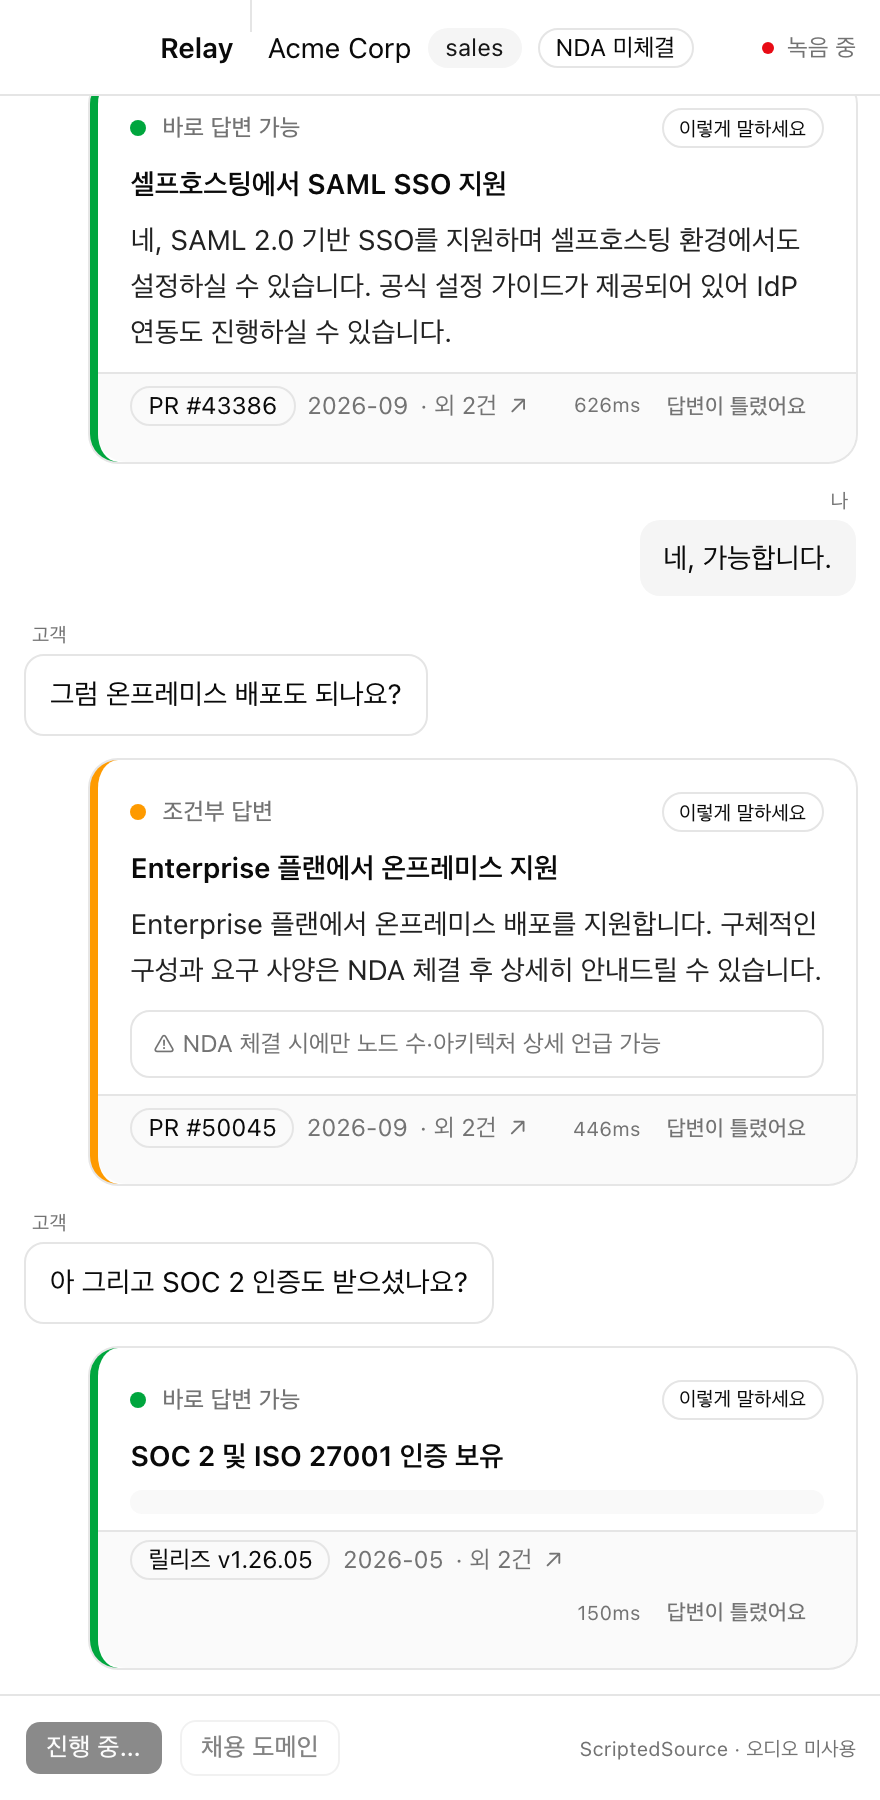
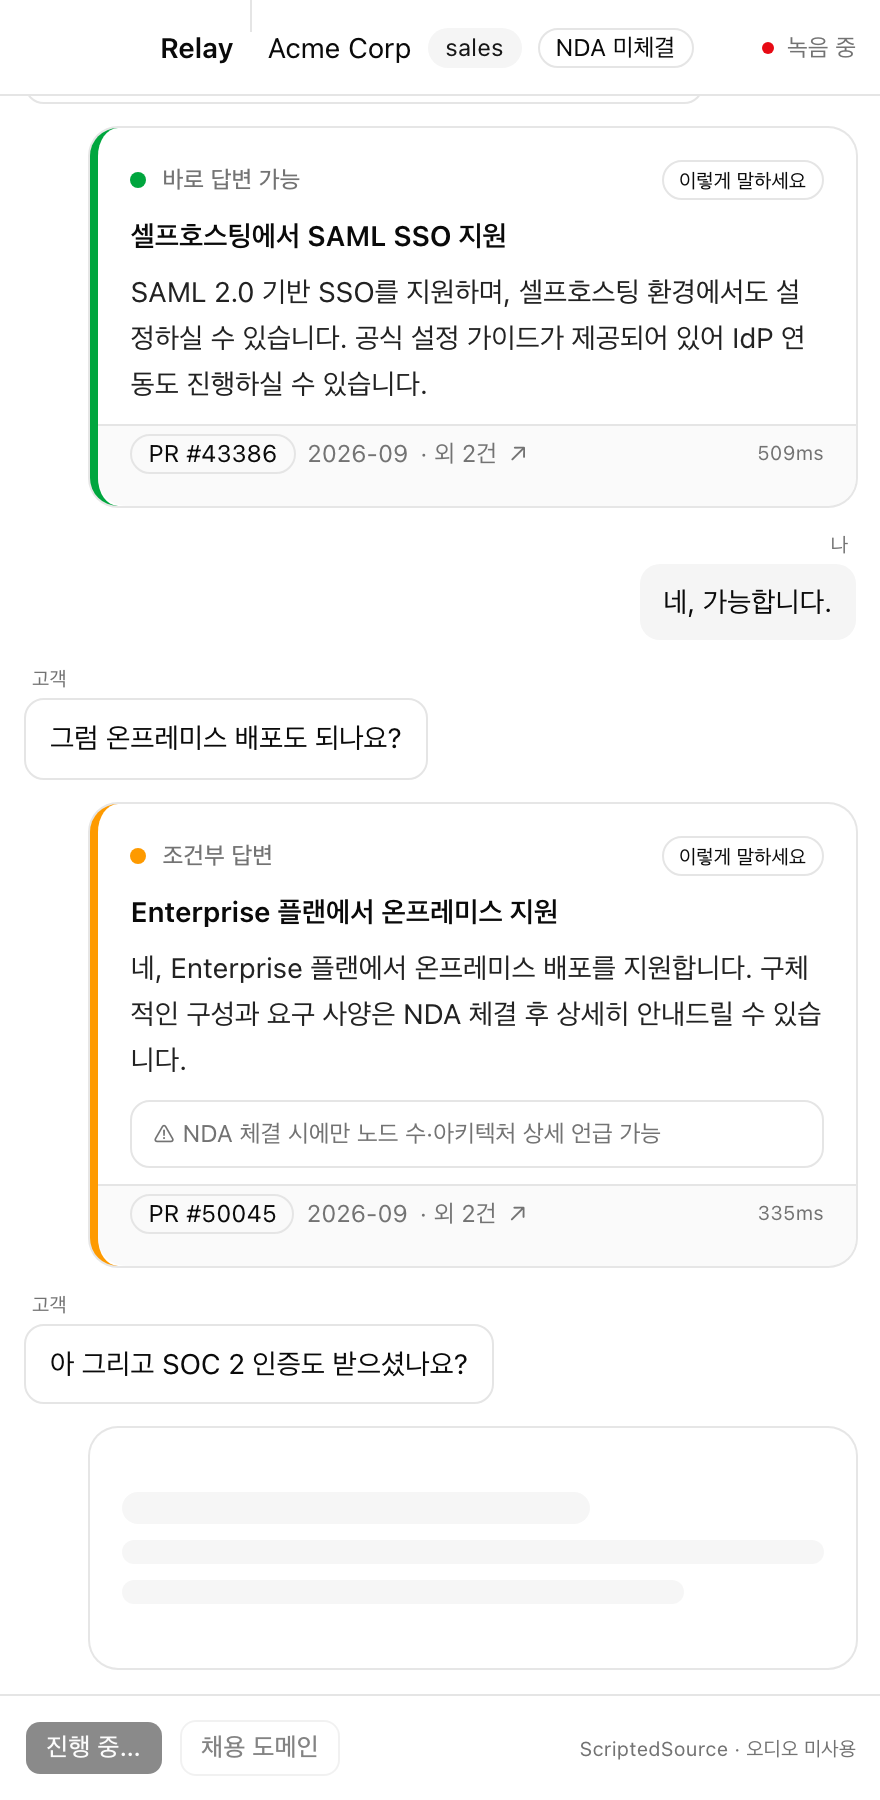
fix: 동작하지 않는 [답변이 틀렸어요] 버튼 제거 + Swift 계획서 보완
버튼 제거
  POST /questions/{id}/reject 가 미구현이라 눌러도 아무 일도 일어나지 않았다.
  SwiftUI 로 옮기면 동작하지 않는 UI 를 그대로 복제하게 되므로 먼저 제거한다.
  API 구현 시 함께 되살린다.

계획서 09 수정
  3-1  패널이 쓰는 API 표에 reject 누락 사유 명시
  3-4  TS 리듀서 출력을 파일로 떠 두는 dump-feed 스크립트 필요성 추가
       (없으면 'TS 피드와 동일'을 검증할 기준 자체가 없음)
  P2   캡처 확보를 완료 기준에 추가
  P3   sharingType=.none 이 스크린샷도 막는 모순 해소.
       RELAY_CAPTURE 토글 + 캡처는 Phase 2 에서 선확보
  P4   utterances 업링크는 '신규'가 아니라 명세 선언 후 미구현임을 정정
  리스크 표에 위 두 건 추가

캡처 재촬영 (버튼 제거 반영), 대상 경로를 /panel-full 로 변경

diff --git a/app/src/components/panel/suggestion-card.tsx b/app/src/components/panel/suggestion-card.tsx
@@ -1,6 +1,5 @@
 import { Card, CardContent, CardFooter, CardHeader } from '@/components/ui/card'
 import { Badge } from '@/components/ui/badge'
-import { Button } from '@/components/ui/button'
 import { Alert, AlertDescription } from '@/components/ui/alert'
 import { Skeleton } from '@/components/ui/skeleton'
 import { cn } from '@/lib/utils'
@@ -19,13 +18,12 @@ const MODE = {
   escalate:    { label: '확인 필요',      border: 'border-l-red-600',    dot: 'bg-red-600' },
 } as const
 
-export function SuggestionCard({
-  item,
-  onReject,
-}: {
-  item: SuggestionItem
-  onReject?: (questionId: string) => void
-}) {
+/**
+ * 답변 오류 신고 버튼은 두지 않는다.
+ * POST /questions/{id}/reject 를 구현하기 전까지 누를 수 있는 버튼을 노출하면
+ * 동작하지 않는 UI가 된다. API 구현 시 함께 되살린다.
+ */
+export function SuggestionCard({ item }: { item: SuggestionItem }) {
   // 판정 전 — 질문은 감지됐고 검색 중
   if (!item.mode) {
     return (
@@ -81,19 +79,9 @@ export function SuggestionCard({
 
       <CardFooter className="flex-wrap items-center gap-x-2 gap-y-1 px-4 pt-1">
         <SourceBadge evidence={item.evidence} />
-        <div className="ml-auto flex items-center gap-1">
-          {item.latencyMs !== null && (
-            <span className="text-[10px] text-muted-foreground">{item.latencyMs}ms</span>
-          )}
-          <Button
-            variant="ghost"
-            size="sm"
-            className="no-drag h-6 px-2 text-[11px] text-muted-foreground"
-            onClick={() => onReject?.(item.id)}
-          >
-            답변이 틀렸어요
-          </Button>
-        </div>
+        {item.latencyMs !== null && (
+          <span className="ml-auto text-[10px] text-muted-foreground">{item.latencyMs}ms</span>
+        )}
       </CardFooter>
     </Card>
   )

diff --git a/docs/09-Swift-마이그레이션-계획.md b/docs/09-Swift-마이그레이션-계획.md
@@ -1,0 +1,243 @@
+# Relay — 화면 1 Swift 마이그레이션 계획
+
+> 2026-09-08 작성. **과제 제출(09-10 14:00) 이후** 착수 전제.
+> 범위: 실시간 어시스트 패널(화면 1)만 SwiftUI로 옮긴다. 백엔드·화면 2·3은 그대로.
+> 견적: SwiftUI 숙련자 기준 **3.5일** (버퍼 포함 4일).
+
+---
+
+## 0. 왜 옮기는가, 왜 패널만인가
+
+| 이유 | 설명 |
+|---|---|
+| Liquid Glass | Electron은 `NSVisualEffectView`까지만 노출. 굴절·주변광 반응은 `NSGlassEffectView`/`.glassEffect()` 전용 |
+| 패널이 효과를 가장 크게 받음 | 항상 떠 있는 유리창이라 재질 차이가 상시 노출됨. 화면 2·3은 책상 앞 일반 창이라 이득이 작음 |
+| 시스템 오디오 | `ScreenCaptureKit`이 네이티브. `03-기술스택.md`에서 Tauri를 기각한 사유가 Swift에선 반대로 장점 |
+| 화면 2·3은 웹 유지 | 브라우저에서도 써야 하고, 옮겨도 시각적 이득이 없음. 두 벌 유지 비용만 생김 |
+
+---
+
+## 1. 범위 — 옮기는 것 / 건드리지 않는 것
+
+`git ls-files` 실측 (2026-09-08).
+
+| 영역 | 줄 수 | 처리 |
+|---|---|---|
+| `app/src/lib` 파이프라인 (감지·검색·판정·생성) | 1,230 | **그대로** |
+| `app/src/app/api` REST + SSE | 270 | **그대로** |
+| `app/scripts`, `db/schema.sql`, docker | 1,005 | **그대로** |
+| `app/src/components/gaps` 화면 2 | 433 | **그대로** (웹) |
+| `app/src/components/panel` 화면 1 | 421 | **→ SwiftUI** |
+| `app/src/app/panel*`, `session-header.tsx` | 116 | **→ SwiftUI** |
+| `app/electron/main.js` | 73 | **→ NSPanel** (Phase 3 완료 후 삭제) |
+| `app/src/components/ui` shadcn | 1,118 | 안 옮김. SwiftUI 기본 컴포넌트 |
+
+**백엔드 수정 0줄.** 컴포넌트가 `fetch`/`EventSource`로만 통신하며 서버 액션·직접 DB 접근이 없음을 확인함.
+
+---
+
+## 2. 목표 아키텍처
+
+```
+┌──────────────────────────────┐        ┌──────────────────────────────┐
+│  Relay.app (Swift)            │  HTTP  │  Next.js  (localhost:3000)    │
+│                               │ ─────▶ │                               │
+│  NSPanel(.nonactivating)      │  SSE   │  /api/sessions  (기존)         │
+│   └ NSHostingView             │ ◀───── │  /api/sessions/{id}/stream    │
+│      └ PanelView (SwiftUI)    │        │  /api/deferrals (화면 2가 씀)  │
+│         .glassEffect()        │        │                               │
+│                               │        │  lib/pipeline → Postgres      │
+│  RelayCore (SwiftPM)          │        │               → OpenAI        │
+│   ├ SSEClient                 │        └──────────────────────────────┘
+│   ├ Event (Codable enum)      │                    ▲
+│   └ FeedStore (@Observable)   │        브라우저 ── /gaps (화면 2, 그대로)
+└──────────────────────────────┘
+```
+
+Electron과 Swift 앱은 **같은 서버에 동시에 붙을 수 있다.** 전환 기간 동안 둘을 나란히 띄워 비교한다.
+
+---
+
+## 3. 계약 고정 — 옮기기 전에 얼려 두는 것
+
+### 3-1. 패널이 쓰는 API (2개)
+
+| 호출 | 요청 | 응답 |
+|---|---|---|
+| `POST /api/sessions` | `{ domain, counterpartOrg, context }` | `201 { session: {id, counterpart_org, domain, context, …} }` |
+| `GET /api/sessions/{id}/stream` | — | `text/event-stream`, `data: <json>\n\n` |
+
+> **답변 오류 신고는 이 목록에 없다.**
+> `POST /questions/{id}/reject` 는 API 명세에 선언돼 있으나 미구현이며,
+> 동작하지 않는 버튼을 옮기지 않기 위해 화면에서도 제거했다(2026-09-08).
+> 구현 시 이 표에 3번째 행으로 추가하고 카드 푸터에 버튼을 되살린다.
+
+### 3-2. SSE 이벤트 (10종)
+
+| type | 페이로드 | 피드 반영 |
+|---|---|---|
+| `utterance.partial` | `id, role, text` | 같은 `id` 버블 텍스트 갱신 (없으면 추가) |
+| `utterance.final` | `tempId, utterance{…row, role}` | `tempId` 버블을 확정 row로 교체 |
+| `question.detected` | `questionId, normalized, intent` | 스켈레톤 제안 카드 추가 (`mode: nil`) |
+| `question.verdict` | `questionId, responseMode, headline, condition, evidence[], latencyMs` | 카드 판정 채움 |
+| `question.delta` | `questionId, delta` | `script += delta` |
+| `question.done` | `questionId, script, totalMs` | `done = true`, 최종 script로 덮어씀 |
+| `gap.created` | `questionId, gapId, reason` | 카드에 공백 표시 |
+| `script.done` | — | 스트림 종료, `running = false` |
+| `error` | `message` | 에러 표시 |
+| `utterance` | (서버 내부, 스트림에는 안 나감) | 무시 |
+
+### 3-3. 함정: 케이싱이 섞여 있다
+
+- 이벤트 최상위 필드는 **camelCase** (`questionId`, `responseMode`, `latencyMs`)
+- `utterance.final.utterance` 와 `session` 은 **snake_case** DB row (`session_id`, `is_final`, `has_question_mark`, `counterpart_org`)
+
+→ Swift에서 전역 `keyDecodingStrategy = .convertFromSnakeCase` 를 쓰면 camelCase 필드가 깨진다.
+**타입별 `CodingKeys` 로 명시**하고, 전역 전략은 쓰지 않는다.
+
+### 3-4. 픽스처 녹화
+
+옮기기 전에 실제 스트림을 파일로 떠 둔다.
+
+```
+curl -N localhost:3000/api/sessions/{id}/stream > macos/Fixtures/sales-demo.sse
+```
+
+이 파일이 Swift 파서·리듀서 테스트의 입력이 된다. TS `use-session-stream.ts`가 만드는 피드와
+**항목 수·순서·최종 텍스트가 동일**해야 통과.
+
+비교 대상인 TS 피드도 파일로 떠 둔다. 리듀서만 떼어내 픽스처를 먹이고 결과를 JSON 으로 출력하는
+스크립트가 필요하다 (`app/scripts/dump-feed.ts`, 약 20줄). 이게 없으면 "동일하다"를 검증할 기준이 없다.
+
+```
+Fixtures/sales-demo.sse        입력 (양쪽 공통)
+Fixtures/sales-demo.feed.json  TS 리듀서 출력 = Swift 테스트의 기대값
+```
+
+---
+
+## 4. 단계별 계획
+
+각 단계는 **완료 기준**이 통과해야 다음으로 간다.
+
+### Phase 0 — 준비 (0.5일)
+
+| 작업 | 완료 기준 |
+|---|---|
+| `macos/` 디렉터리, SwiftPM 패키지 `RelayCore` + 앱 타겟 `Relay` 생성 | `swift build` 통과 |
+| 세션 2종(sales / recruiting) SSE 픽스처 녹화 | `Fixtures/*.sse` 2개 존재 |
+| 이 문서의 3절 표를 `RelayCore/Event.swift` 주석으로 옮김 | — |
+
+### Phase 1 — 코어 (1일) · UI 없음
+
+| 작업 | 완료 기준 |
+|---|---|
+| `Event` — `enum` + `Codable`, 타입별 `CodingKeys` | 픽스처 전 줄 디코딩 성공, 알 수 없는 `type`은 무시 (crash 금지) |
+| `SSEClient` — `URLSession.bytes(for:)` → `lines` → `data:` 파싱 → `AsyncStream<Event>` | 픽스처를 로컬 HTTP로 서빙해 끝까지 수신, 취소 시 누수 없음 |
+| `FeedStore` — `@MainActor @Observable`, TS reducer 이식 | 픽스처 재생 결과가 TS 피드와 동일 (항목 수·순서·최종 텍스트) |
+| `RelayAPI` — `createSession` | 실서버 대상 201 수신 |
+
+> 이 단계가 전체의 절반이다. 여기서 TS 리듀서와 1:1로 맞춰 두면 UI는 순수 SwiftUI 작업이 된다.
+
+### Phase 2 — 창 + UI (1.5일)
+
+| 작업 | 완료 기준 |
+|---|---|
+| `PanelWindow` — `NSPanel(styleMask: [.nonactivatingPanel, .fullSizeContentView, …])`, `level = .floating`, `collectionBehavior = [.canJoinAllSpaces, .fullScreenAuxiliary]`, `NSHostingView` | 패널 클릭 시 뒤 앱(브라우저)이 활성 상태 유지 |
+| `SessionHeader` — 녹음 점·경과·상대·단계 (현 `session-header.tsx` 이식) | 타이머가 캡처 중에만 돈다 |
+| `UtteranceBubble` — partial/final 구분 | partial 중 텍스트 갱신이 깜빡이지 않음 |
+| `SuggestionCard` — 스켈레톤 → 판정 → 스트리밍 script → done | `question.delta` 수신 중 한글 조합이 튀지 않음 |
+| `SourceBadge`, 근거 펼침 | — |
+| 자동 스크롤 (`ScrollViewReader`) | 새 항목 추가 시 하단 고정, 사용자가 위로 올리면 멈춤 |
+| `.glassEffect()` 적용, 라이트/다크 | 시스템 외관 전환 시 즉시 반영 |
+| **데모 E2E** | `pnpm dev` 띄운 상태에서 sales 스크립트 9발화 → 카드 4장, 판정 🟢2 🟡1 🔴1 (`08-MVP-Phase2-결과.md`와 동일) |
+| **캡처 확보** ★ | 판정 3색 + 대기 상태 스크린샷을 `wireframes/out/` 에 저장. **Phase 3 의 `sharingType = .none` 을 켜기 전에 반드시 끝낸다** |
+
+### Phase 3 — 폴리시 + 전환 (0.5일)
+
+| 작업 | 완료 기준 |
+|---|---|
+| `window.sharingType = .none` (화면 공유·녹화에서 제외) | QuickTime 화면 녹화에 패널이 안 찍힘 |
+| ↑ 단, `RELAY_CAPTURE=1` 환경변수일 때는 `.readOnly` 로 둔다 | 캡처가 필요할 때 재빌드 없이 전환 가능 |
+| 전역 단축키 (`⌘\` 숨김/표시) — `NSEvent.addGlobalMonitorForEvents` 또는 `CGEventTap` | 다른 앱 활성 상태에서 동작 |
+| Reduce Transparency 대응 (`accessibilityDisplayShouldReduceTransparency`) | 설정 켜면 불투명 배경으로 |
+| Electron 셸 제거 — `app/electron/`, `dev:desktop` 스크립트, `electron`·`concurrently`·`wait-on` 의존성 | `pnpm build`·`lint` 통과, `/panel` 라우트는 브라우저 미리보기용으로 유지 |
+| 문서 갱신 — `03-기술스택.md` 스택 표, `05-화면-필드.md` 캡처 교체 | **Phase 2 에서 확보한 캡처를 사용한다.** 이 단계에서 새로 찍으려 하면 `sharingType = .none` 때문에 찍히지 않는다 |
+
+### Phase 4 — 실제 오디오 (선택, 2~3일) · 별도 결정
+
+현재 파이프라인은 **서버가 `ScriptedSource`를 재생해 내려보내는 구조**라 클라이언트 → 서버 업링크가 없다.
+실제 오디오는 인터페이스 추가가 필요하며, 이건 Swift 전환과 무관하게 Electron에서도 똑같이 필요했던 작업이다.
+
+| 작업 | 비고 |
+|---|---|
+| `AVAudioEngine` 마이크 + `ScreenCaptureKit` 시스템 오디오 (2트랙) | TCC 권한 2종 (마이크·화면 녹화) |
+| OpenAI Realtime WS로 STT — 트랙당 세션 1개, `semantic_vad` | `03-기술스택.md` 결정 그대로 |
+| `POST /api/sessions/{id}/utterances` — 확정 발화 업링크 (**명세에는 선언돼 있고 구현만 없음**) | 서버는 `saveUtterance` + `processUtterance` 호출. `stream` 라우트에서 ScriptedSource 분기 제거 |
+| `AudioSource` 프로토콜 — `ScriptedSource` / `LiveSource` 교체 가능 | 설계 문서의 인터페이스를 클라이언트로 옮김 |
+
+---
+
+## 5. 리포 구조
+
+```
+macos/
+├── Package.swift                 # RelayCore (라이브러리) + RelayCoreTests
+├── Sources/RelayCore/
+│   ├── Event.swift               # SSE 이벤트 enum + CodingKeys
+│   ├── SSEClient.swift
+│   ├── RelayAPI.swift
+│   └── FeedStore.swift
+├── Tests/RelayCoreTests/
+│   └── FeedStoreTests.swift      # 픽스처 재생 → TS 피드와 비교
+├── Fixtures/
+│   ├── sales-demo.sse
+│   └── recruiting-demo.sse
+└── Relay/                        # Xcode 앱 타겟
+    ├── RelayApp.swift
+    ├── PanelWindow.swift         # NSPanel + NSHostingView
+    └── Views/
+        ├── PanelView.swift
+        ├── SessionHeader.swift
+        ├── UtteranceBubble.swift
+        ├── SuggestionCard.swift
+        └── SourceBadge.swift
+```
+
+코어를 SwiftPM 패키지로 분리하는 이유: **Xcode 없이 `swift test`로 리듀서를 검증**할 수 있고,
+UI와 무관하게 CI에서 돌릴 수 있다.
+
+---
+
+## 6. 리스크와 대응
+
+| 리스크 | 영향 | 대응 |
+|---|---|---|
+| Swift 6 엄격 동시성 — SSE 스트림(백그라운드) → `FeedStore`(메인) 경계 | 컴파일 에러 폭주 | `FeedStore`를 `@MainActor`로, `SSEClient`는 `Sendable` 이벤트만 방출. 첫날에 경계를 확정 |
+| 케이싱 혼재 (3-3절) | 조용히 `nil` 디코딩 | 전역 전략 금지, 타입별 `CodingKeys`, 픽스처 테스트로 전 필드 검증 |
+| 한글 조합 중 스트리밍 텍스트 튐 | UX | `Text`에 `String` 통째로 교체하지 말고 `AttributedString` 누적, 필요 시 `.contentTransition(.identity)` |
+| `next dev` 가 항상 떠 있어야 함 | 데모 절차 +1 | 데모 체크리스트에 명시. 장기적으로 앱이 `next start`를 자식 프로세스로 띄우는 옵션 |
+| TCC 권한 팝업 (Phase 4) | 데모 중 팝업 | 리허설 때 미리 허용. `Info.plist` 사용 설명 문구 필수 |
+| 알 수 없는 이벤트 type 추가 | 크래시 | `Event` 디코딩에 `unknown` 케이스, 무시하고 계속 |
+| Electron·Swift 동시 유지 기간 | 두 벌 수정 | Phase 2 완료 즉시 Electron 제거. 병행 기간 최대 1주 |
+| **`sharingType = .none` 이 스크린샷도 막는다** | PDF 캡처 불가 | 캡처는 Phase 2 에서 먼저 확보. Phase 3 은 `RELAY_CAPTURE` 로 토글 |
+| **미구현 API 를 그대로 이식** | 동작하지 않는 UI 복제 | 옮기기 전에 화면에서 제거하거나 API 를 먼저 구현. 3-1 절 주석 참조 |
+
+---
+
+## 7. 되돌리기
+
+- Phase 2까지는 **Electron을 삭제하지 않는다.** `pnpm dev:desktop`이 계속 동작하므로 언제든 복귀 가능.
+- 백엔드를 안 건드리므로 Swift 쪽을 통째로 지워도 웹·API는 영향 없음.
+- Phase 3의 Electron 제거는 별도 커밋으로 격리한다 (revert 1회로 복구).
+
+---
+
+## 8. 문서 반영
+
+| 문서 | 수정 |
+|---|---|
+| `03-기술스택.md` | 데스크톱 클라이언트 행 → `Swift / SwiftUI (macOS 26+)`. "전 계층 TypeScript" 근거에 예외 기재 |
+| `03-기술스택.md` 선택 근거 | Tauri 기각 사유(오디오 캡처)가 Swift에선 장점임을 추가 |
+| `05-화면-필드.md` 화면 1 | 필드 변경 없음. 캡처만 교체 |
+| PDF 6장 고려사항 | "다음 단계: 패널 네이티브 전환" 항목으로 이 문서 요약 |
